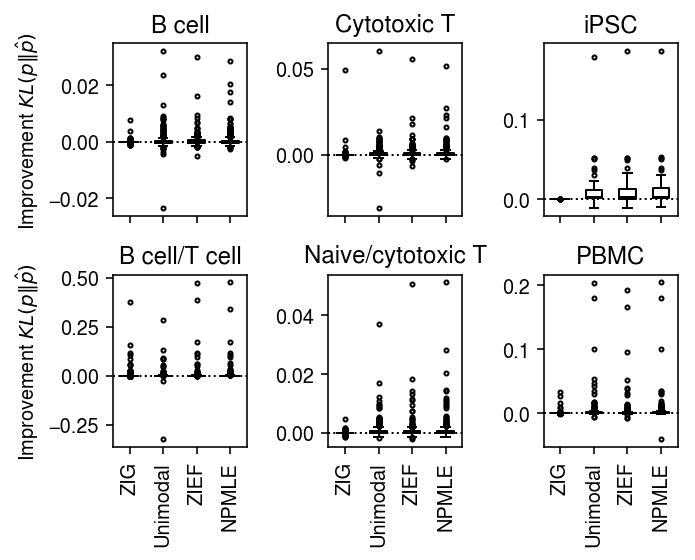
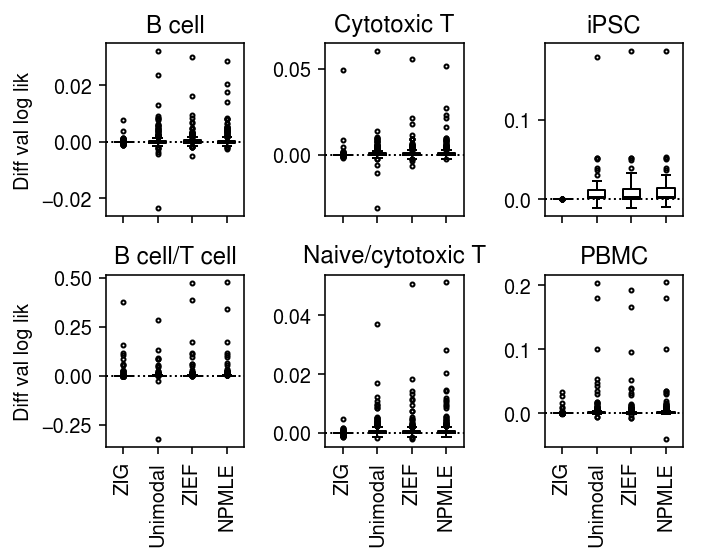
Revise MLCB plots

diff --git a/docs/deconvolution.html b/docs/deconvolution.html
@@ -1,7 +1,7 @@
 <!DOCTYPE html>
 <html lang="en">
 <head>
-<!-- 2019-08-27 Tue 23:40 -->
+<!-- 2019-09-08 Sun 19:45 -->
 <meta charset="utf-8">
 <meta name="viewport" content="width=device-width, initial-scale=1">
 <title>Comparison of expression deconvolution approaches</title>
@@ -274,7 +274,7 @@ for the JavaScript code in this tag.
 <li><a href="#homogeneous">Homogeneous cell populations</a></li>
 <li><a href="#synthetic">Synthetic cell mixtures</a></li>
 <li><a href="#heterogeneous">Heterogeneous cell populations</a></li>
-<li><a href="#org99de990">Finalize plots</a></li>
+<li><a href="#mlcb">MLCB plots</a></li>
 </ul>
 </li>
 </ul>
@@ -1048,7 +1048,7 @@ Plot the generalization performance of each method.
 <li>ZIG does not perform better than Gamma, supporting the conclusions of
 <a href="https://www.biorxiv.org/content/10.1101/582064v1">Svensson 2019</a></li>
 <li>There is heterogeneity which isn't adequately described by Gamma, but
-<a href="deconv-examples.html#org3205fdb">appears equally well
+<a href="deconv-examples.html#org421ce52">appears equally well
 described by unimodal/NPMLE</a></li>
 </ol>
 </div>
@@ -1498,9 +1498,9 @@ Plot the results.
 </div>
 </div>
 </div>
-<div id="outline-container-org99de990" class="outline-3">
-<h3 id="org99de990">Finalize plots</h3>
-<div class="outline-text-3" id="text-org99de990">
+<div id="outline-container-orge3cdfae" class="outline-3">
+<h3 id="mlcb"><a id="orge3cdfae"></a>MLCB plots</h3>
+<div class="outline-text-3" id="text-mlcb">
 <div class="org-src-container">
 <pre class="src src-ipython"><span class="org-variable-name">benchmark</span> = {
   k: g.reset_index(level=0, drop=<span class="org-constant">True</span>) <span class="org-keyword">for</span> k, g <span class="org-keyword">in</span>
@@ -1525,18 +1525,26 @@ benchmark.update({
 </pre>
 </div>
 
+<p>
+Plot the improvement in validation log likelihood against Gamma baseline.
+</p>
+
 <div class="org-src-container">
 <pre class="src src-ipython">plt.clf()
 <span class="org-variable-name">fig</span>, <span class="org-variable-name">ax</span> = plt.subplots(2, 3, sharex=<span class="org-constant">True</span>, sharey=<span class="org-constant">False</span>)
 fig.set_size_inches(5, 4)
 <span class="org-keyword">for</span> a, k, t <span class="org-keyword">in</span> <span class="org-builtin">zip</span>(ax.ravel(), benchmark, [<span class="org-string">'B cell'</span>, <span class="org-string">'Cytotoxic T'</span>, <span class="org-string">'iPSC'</span>, <span class="org-string">'B cell/T cell'</span>, <span class="org-string">'Naive/cytotoxic T'</span>, <span class="org-string">'PBMC'</span>]):
-  <span class="org-variable-name">T</span> = (benchmark[f<span class="org-string">'{k}'</span>].values - benchmark[f<span class="org-string">'{k}'</span>][<span class="org-string">'gamma'</span>].values.reshape(-1, 1))[:,1:]
-  a.boxplot([x[~np.isnan(x)] <span class="org-keyword">for</span> x <span class="org-keyword">in</span> T.T], widths=.5, medianprops={<span class="org-string">'color'</span>: <span class="org-string">'k'</span>}, flierprops={<span class="org-string">'marker'</span>: <span class="org-string">'.'</span>, <span class="org-string">'markersize'</span>: 4})
+  <span class="org-variable-name">T</span> = benchmark[k].sub(benchmark[k][<span class="org-string">'gamma'</span>], axis=0)
+  <span class="org-keyword">del</span> T[<span class="org-string">'gamma'</span>]
+  a.boxplot([x[~np.isnan(x)] <span class="org-keyword">for</span> x <span class="org-keyword">in</span> T.values.T],
+            widths=.5,
+            medianprops={<span class="org-string">'color'</span>: <span class="org-string">'k'</span>},
+            flierprops={<span class="org-string">'marker'</span>: <span class="org-string">'.'</span>, <span class="org-string">'markersize'</span>: 4})
   a.axhline(y=0, ls=<span class="org-string">':'</span>, lw=1, c=<span class="org-string">'k'</span>)
   a.set_xticklabels([<span class="org-string">'ZIG'</span>, <span class="org-string">'Unimodal'</span>, <span class="org-string">'ZIEF'</span>, <span class="org-string">'NPMLE'</span>], rotation=90)
   a.set_title(t)
 <span class="org-keyword">for</span> a <span class="org-keyword">in</span> ax:
-  a[0].set_ylabel(<span class="org-string">'Improvement $KL(p \Vert \hat{p})$'</span>)
+  a[0].set_ylabel(<span class="org-string">'Diff val log lik'</span>)  
 fig.tight_layout()
 </pre>
 </div>
@@ -1546,6 +1554,114 @@ fig.tight_layout()
 <p><img src="figure/deconvolution.org/mlcb-bench.png" alt="mlcb-bench.png">
 </p>
 </div>
+
+<p>
+Try to plot the benchmark results using violin plots.
+</p>
+
+<div class="org-src-container">
+<pre class="src src-ipython">plt.clf()
+<span class="org-variable-name">fig</span>, <span class="org-variable-name">ax</span> = plt.subplots(2, 3, sharex=<span class="org-constant">True</span>, sharey=<span class="org-constant">False</span>)
+fig.set_size_inches(5, 4)
+<span class="org-keyword">for</span> a, k, t <span class="org-keyword">in</span> <span class="org-builtin">zip</span>(ax.ravel(), benchmark, [<span class="org-string">'B cell'</span>, <span class="org-string">'Cytotoxic T'</span>, <span class="org-string">'iPSC'</span>, <span class="org-string">'B cell/T cell'</span>, <span class="org-string">'Naive/cytotoxic T'</span>, <span class="org-string">'PBMC'</span>]):
+  <span class="org-variable-name">T</span> = benchmark[k].sub(benchmark[k][<span class="org-string">'gamma'</span>], axis=0)
+  <span class="org-keyword">del</span> T[<span class="org-string">'gamma'</span>]
+  <span class="org-variable-name">vp</span> = a.violinplot([x[~np.isnan(x)] <span class="org-keyword">for</span> x <span class="org-keyword">in</span> T.values.T], widths=0.75, showextrema=<span class="org-constant">True</span>)
+  <span class="org-keyword">for</span> pc <span class="org-keyword">in</span> vp[<span class="org-string">'bodies'</span>]:
+    pc.set_linewidth(0)
+    pc.set_color(<span class="org-string">'0.4'</span>)
+  <span class="org-keyword">for</span> key <span class="org-keyword">in</span> (<span class="org-string">'cmins'</span>, <span class="org-string">'cmaxes'</span>, <span class="org-string">'cbars'</span>):
+    vp[key].set_linewidth(1)
+    vp[key].set_color(<span class="org-string">'0.4'</span>)
+
+  a.axhline(y=0, ls=<span class="org-string">':'</span>, lw=1, c=<span class="org-string">'k'</span>)
+  a.set_xticks(np.arange(1, 5))
+  a.set_xticklabels([<span class="org-string">'ZIG'</span>, <span class="org-string">'Unimodal'</span>, <span class="org-string">'ZIEF'</span>, <span class="org-string">'NPMLE'</span>], rotation=90)
+  a.set_title(t)
+<span class="org-keyword">for</span> a <span class="org-keyword">in</span> ax:
+  a[0].set_ylabel(<span class="org-string">'Diff val log lik'</span>)  
+fig.tight_layout()
+</pre>
+</div>
+
+
+<div class="figure">
+<p><img src="figure/deconvolution.org/mlcb-bench-violin.png" alt="mlcb-bench-violin.png">
+</p>
+</div>
+
+<p>
+Plot with unimodal as the baseline.
+</p>
+
+<div class="org-src-container">
+<pre class="src src-ipython">plt.clf()
+<span class="org-variable-name">fig</span>, <span class="org-variable-name">ax</span> = plt.subplots(2, 3, sharex=<span class="org-constant">True</span>, sharey=<span class="org-constant">False</span>)
+fig.set_size_inches(5, 4)
+<span class="org-keyword">for</span> a, k, t <span class="org-keyword">in</span> <span class="org-builtin">zip</span>(ax.ravel(), benchmark, [<span class="org-string">'B cell'</span>, <span class="org-string">'Cytotoxic T'</span>, <span class="org-string">'iPSC'</span>, <span class="org-string">'B cell/T cell'</span>, <span class="org-string">'Naive/cytotoxic T'</span>, <span class="org-string">'PBMC'</span>]):
+  <span class="org-variable-name">T</span> = benchmark[k].sub(benchmark[k][<span class="org-string">'unimodal'</span>], axis=0)
+  <span class="org-keyword">del</span> T[<span class="org-string">'unimodal'</span>]
+  <span class="org-variable-name">vp</span> = a.violinplot([x[~np.isnan(x)] <span class="org-keyword">for</span> x <span class="org-keyword">in</span> T.values.T], widths=0.75, showextrema=<span class="org-constant">True</span>)
+  <span class="org-keyword">for</span> pc <span class="org-keyword">in</span> vp[<span class="org-string">'bodies'</span>]:
+    pc.set_linewidth(0)
+    pc.set_color(<span class="org-string">'0.4'</span>)
+  <span class="org-keyword">for</span> key <span class="org-keyword">in</span> (<span class="org-string">'cmins'</span>, <span class="org-string">'cmaxes'</span>, <span class="org-string">'cbars'</span>):
+    vp[key].set_linewidth(1)
+    vp[key].set_color(<span class="org-string">'0.4'</span>)
+  a.axhline(y=0, ls=<span class="org-string">':'</span>, lw=1, c=<span class="org-string">'k'</span>)
+  a.set_xticks(np.arange(1, 5))
+  a.set_xticklabels([<span class="org-string">'Gamma'</span>, <span class="org-string">'ZIG'</span>, <span class="org-string">'ZIEF'</span>, <span class="org-string">'NPMLE'</span>], rotation=90)
+  a.set_title(t)
+<span class="org-keyword">for</span> a <span class="org-keyword">in</span> ax:
+  a[0].set_ylabel(<span class="org-string">'Diff val log lik'</span>)  
+fig.tight_layout()
+</pre>
+</div>
+
+
+<div class="figure">
+<p><img src="figure/deconvolution.org/mlcb-bench-unimodal-baseline.png" alt="mlcb-bench-unimodal-baseline.png">
+</p>
+</div>
+
+<p>
+Plot a zoomed in version of the benchmark results.
+</p>
+
+<div class="org-src-container">
+<pre class="src src-ipython">plt.clf()
+<span class="org-variable-name">fig</span>, <span class="org-variable-name">ax</span> = plt.subplots(2, 3, sharex=<span class="org-constant">True</span>, sharey=<span class="org-constant">False</span>)
+fig.set_size_inches(5, 4)
+<span class="org-keyword">for</span> a, k, t <span class="org-keyword">in</span> <span class="org-builtin">zip</span>(ax.ravel(), benchmark, [<span class="org-string">'B cell'</span>, <span class="org-string">'Cytotoxic T'</span>, <span class="org-string">'iPSC'</span>, <span class="org-string">'B cell/T cell'</span>, <span class="org-string">'Naive/cytotoxic T'</span>, <span class="org-string">'PBMC'</span>]):
+  <span class="org-variable-name">T</span> = benchmark[k].sub(benchmark[k][<span class="org-string">'unimodal'</span>], axis=0)
+  <span class="org-keyword">del</span> T[<span class="org-string">'unimodal'</span>]
+  <span class="org-variable-name">vp</span> = a.violinplot([x[~np.isnan(x)] <span class="org-keyword">for</span> x <span class="org-keyword">in</span> T.values.T], widths=0.75, showextrema=<span class="org-constant">True</span>)
+  <span class="org-keyword">for</span> pc <span class="org-keyword">in</span> vp[<span class="org-string">'bodies'</span>]:
+    pc.set_linewidth(0)
+    pc.set_color(<span class="org-string">'0.4'</span>)
+  <span class="org-keyword">for</span> key <span class="org-keyword">in</span> (<span class="org-string">'cmins'</span>, <span class="org-string">'cmaxes'</span>, <span class="org-string">'cbars'</span>):
+    vp[key].set_linewidth(1)
+    vp[key].set_color(<span class="org-string">'0.4'</span>)
+  a.axhline(y=0, ls=<span class="org-string">':'</span>, lw=1, c=<span class="org-string">'k'</span>)
+  a.set_xticks(np.arange(1, 5))
+  a.set_xticklabels([<span class="org-string">'Gamma'</span>, <span class="org-string">'ZIG'</span>, <span class="org-string">'ZIEF'</span>, <span class="org-string">'NPMLE'</span>], rotation=90)
+  a.set_title(t)
+  a.set_ylim(-0.02, 0.02)
+<span class="org-keyword">for</span> a <span class="org-keyword">in</span> ax:
+  a[0].set_ylabel(<span class="org-string">'Diff val log lik'</span>)  
+fig.tight_layout()
+</pre>
+</div>
+
+
+<div class="figure">
+<p><img src="figure/deconvolution.org/mlcb-bench-unimodal-baseline-inset.png" alt="mlcb-bench-unimodal-baseline-inset.png">
+</p>
+</div>
+
+<p>
+Plot the iPSC example.
+</p>
 
 <div class="org-src-container">
 <pre class="src src-ipython"><span class="org-variable-name">ipsc_res</span> = pd.read_csv(<span class="org-string">'/project2/mstephens/aksarkar/projects/singlecell-modes/data/deconv-generalization/ipsc-gpu.txt.gz'</span>, index_col=0, sep=<span class="org-string">'\t'</span>)
@@ -1637,7 +1753,7 @@ fig.tight_layout()
 </div>
 <div id="postamble" class="status">
 <p class="author">Author: Abhishek Sarkar</p>
-<p class="date">Created: 2019-08-27 Tue 23:40</p>
+<p class="date">Created: 2019-09-08 Sun 19:45</p>
 <p class="validation"><a href="http://validator.w3.org/check?uri=referer">Validate</a></p>
 </div>
 </body>
